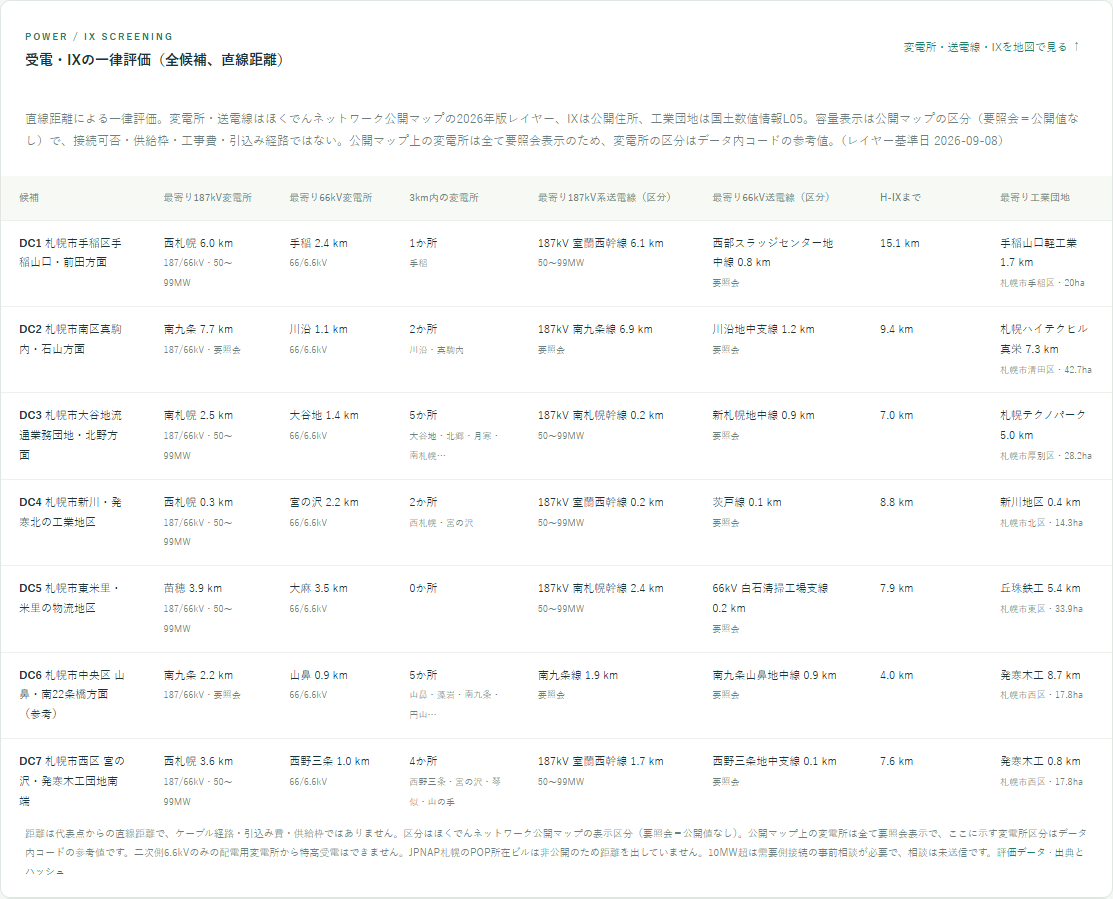
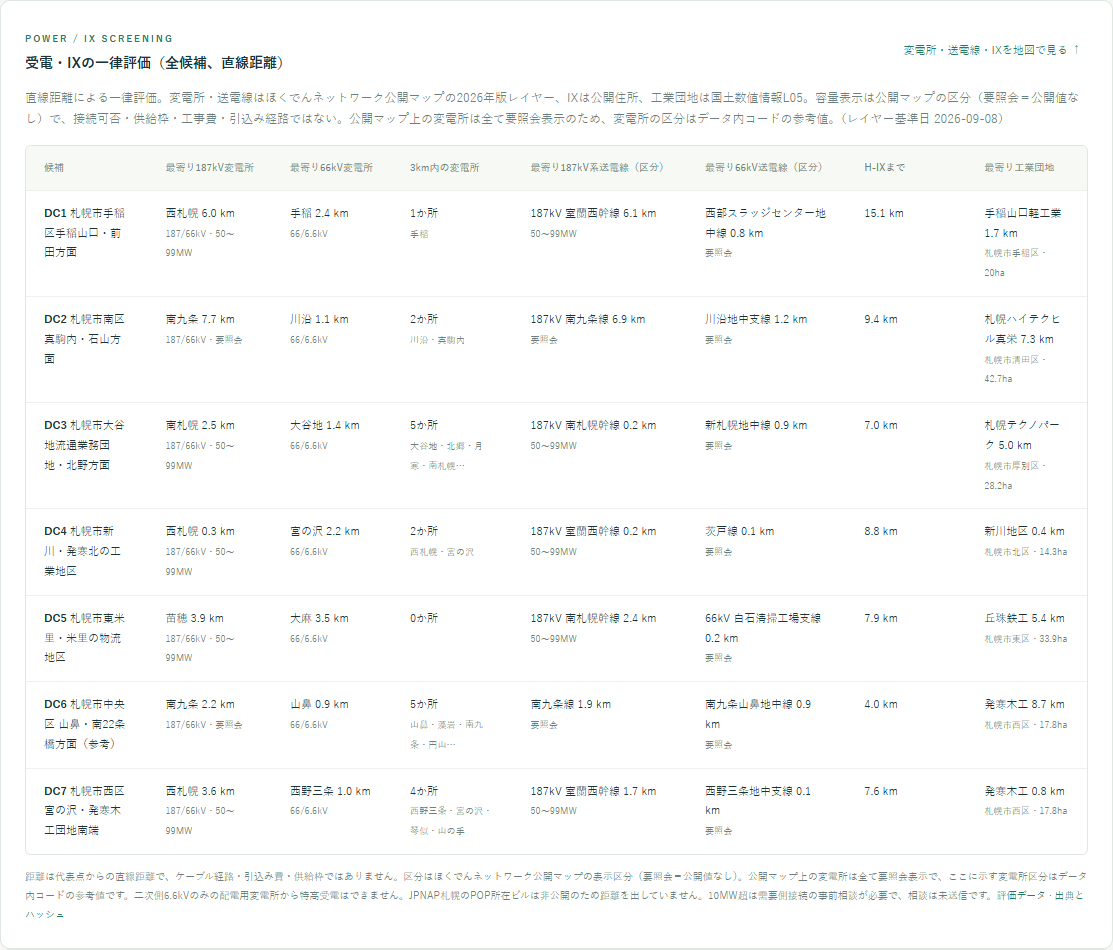
Align the grid/IX panel padding and table frame with neighbouring panels

diff --git a/web/index.html b/web/index.html
@@ -114,7 +114,7 @@
         <p><a href="../docs/regional_melting.md">配置案の根拠・探索条件・集中と分散の比較を読む ↗</a></p>
       </div>
       <div id="dc-sites" class="site-grid"></div>
-      <div class="panel" id="grid-panel"><div class="panel-heading"><div><span class="eyebrow">POWER / IX SCREENING</span><h3>受電・IXの一律評価（全候補、直線距離）</h3></div><button id="grid-view" class="text-button">変電所・送電線・IXを地図で見る ↑</button></div><p class="section-intro" id="grid-method" style="padding:0 24px"></p><div class="table-scroll"><table><thead><tr><th>候補</th><th>最寄り187kV変電所</th><th>最寄り66kV変電所</th><th>3km内の変電所</th><th>最寄り187kV系送電線（区分）</th><th>最寄り66kV送電線（区分）</th><th>H-IXまで</th><th>最寄り工業団地</th></tr></thead><tbody id="dc-grid-table"></tbody></table></div><p class="fineprint">距離は代表点からの直線距離で、ケーブル経路・引込み費・供給枠ではありません。区分はほくでんネットワーク公開マップの表示区分（要照会＝公開値なし）。公開マップ上の変電所は全て要照会表示で、ここに示す変電所区分はデータ内コードの参考値です。二次側6.6kVのみの配電用変電所から特高受電はできません。JPNAP札幌のPOP所在ビルは非公開のため距離を出していません。10MW超は需要側接続の事前相談が必要で、相談は未送信です。<a href="../data/processed/dc_grid_ix.json">評価データ</a> · <a href="../data/grid_ix_sources.json">出典とハッシュ</a></p></div>
+      <div class="panel" id="grid-panel"><div class="panel-heading"><div><span class="eyebrow">POWER / IX SCREENING</span><h3>受電・IXの一律評価（全候補、直線距離）</h3></div><button id="grid-view" class="text-button">変電所・送電線・IXを地図で見る ↑</button></div><p class="section-intro" id="grid-method"></p><div class="table-scroll"><table><thead><tr><th>候補</th><th>最寄り187kV変電所</th><th>最寄り66kV変電所</th><th>3km内の変電所</th><th>最寄り187kV系送電線（区分）</th><th>最寄り66kV送電線（区分）</th><th>H-IXまで</th><th>最寄り工業団地</th></tr></thead><tbody id="dc-grid-table"></tbody></table></div><p class="fineprint">距離は代表点からの直線距離で、ケーブル経路・引込み費・供給枠ではありません。区分はほくでんネットワーク公開マップの表示区分（要照会＝公開値なし）。公開マップ上の変電所は全て要照会表示で、ここに示す変電所区分はデータ内コードの参考値です。二次側6.6kVのみの配電用変電所から特高受電はできません。JPNAP札幌のPOP所在ビルは非公開のため距離を出していません。10MW超は需要側接続の事前相談が必要で、相談は未送信です。<a href="../data/processed/dc_grid_ix.json">評価データ</a> · <a href="../data/grid_ix_sources.json">出典とハッシュ</a></p></div>
       <div class="panel"><h3>DC規模別の融雪と搬入</h3><p id="dc-assumptions" class="fineprint"></p><div class="table-scroll"><table><thead><tr><th>IT容量</th><th>融雪 t/日</th><th>雪 m³/日</th><th>8t積み 便/日</th><th>投雪レーン数</th></tr></thead><tbody id="dc-scenarios"></tbody></table></div><p class="fineprint">レーン数：搬入16時間、1便8分、稼働率70%の仮定。融雪は24時間。敷地内の雪の一時貯留が必要です。</p><h3>IX・回線を立地条件にする</h3><p id="dc-network"></p><p><a href="../docs/dc_feasibility.md">候補地の検証・受電条件・IX誘致案を読む ↗</a></p></div>
       <h3>比較対象：既存の融雪施設</h3>
       <p class="section-intro">調査順は既存設備との接続を重視した設計判断です。全候補で、用地確保・受電余力・通信冗長性・敷地別浸水深は未確認です。建設適地の認定や経済性の順位ではありません。</p>

diff --git a/web/style.css b/web/style.css
@@ -61,7 +61,7 @@ tr.faded-row td{opacity:.4}
 .grid-ss span{display:block;background:#fff;border:1.5px solid #7a4fb8;color:#5b2a86;border-radius:3px;font:bold 9px/13px Arial;text-align:center}
 .grid-ss-hv span{background:#5b2a86;color:#fff;border-color:#5b2a86}
 .grid-ix{background:#e0a100;color:#fff;border:2px solid #fff;border-radius:4px;font:bold 10px/16px Arial;text-align:center;box-shadow:0 1px 4px #0005}
-#grid-panel{margin-top:16px}
+#grid-panel{margin-top:16px;padding:24px}#grid-panel .panel-heading{padding:0 0 12px}#grid-panel .panel-heading h3{font-size:14px}#grid-panel .fineprint{padding:12px 0 0}#grid-panel #grid-method{margin:0 0 14px}
 #dc-grid-table td{white-space:normal;vertical-align:top;min-width:120px}
 #dc-grid-table small{color:var(--muted)}
 
@@ -86,3 +86,5 @@ button.vehicle-chip{cursor:pointer;color:var(--ink)}
 .company-detail-grid{display:grid;grid-template-columns:repeat(auto-fit,minmax(220px,1fr));gap:14px;font-size:11px;line-height:1.9}
 .company-detail-grid small{color:var(--muted)}
 .company-detail-grid b{font-size:10px;color:var(--muted);font-weight:600}
+
+#grid-panel .table-scroll{border:1px solid var(--line);border-radius:6px}
